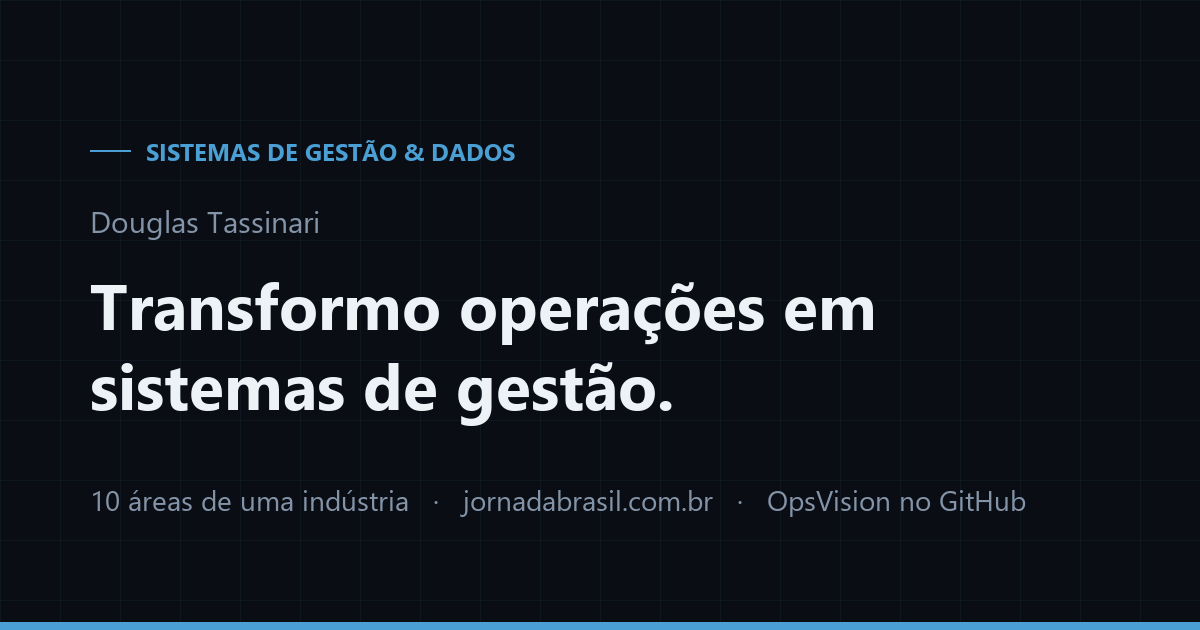
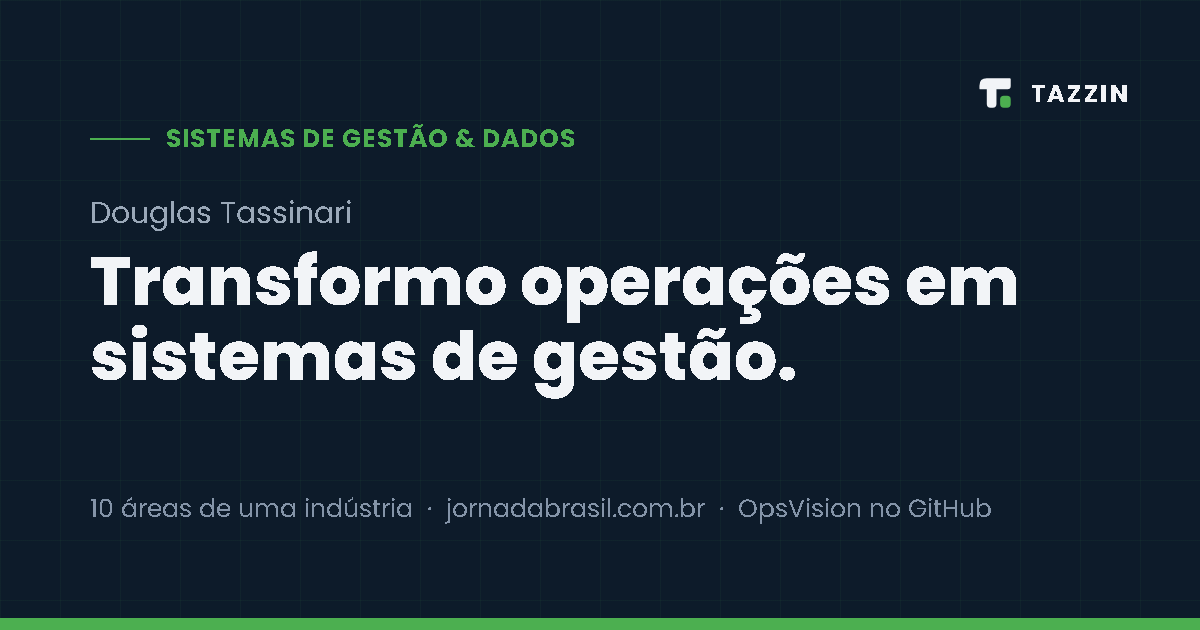
Miniatura de compartilhamento e ícones do app com a identidade Tazzin

diff --git a/cases/plataforma-industrial/index.html b/cases/plataforma-industrial/index.html
@@ -10,9 +10,13 @@
 <meta property="og:url" content="https://douglastassinari.github.io/cases/plataforma-industrial/">
 <meta property="og:title" content="De 15 para 3 dias de trabalho manual por mês: o sistema de gestão que construí numa indústria">
 <meta property="og:description" content="Saúde da carteira de 55 para 74, contatos comerciais 5×, usinagem de 30% para 4% da jornada sem registro — e as decisões por trás disso.">
-<meta property="og:image" content="https://douglastassinari.github.io/assets/img/og-cover.png">
+<meta property="og:image" content="https://douglastassinari.github.io/assets/img/og-cover.png?v=20261109">
+<meta property="og:image:width" content="1200">
+<meta property="og:image:height" content="630">
+<meta property="og:image:alt" content="Douglas Tassinari: sistemas de gestão e dados">
 <meta property="og:locale" content="pt_BR">
 <meta name="twitter:card" content="summary_large_image">
+<meta name="twitter:image" content="https://douglastassinari.github.io/assets/img/og-cover.png?v=20261109">
 <link rel="icon" type="image/svg+xml" href="/favicon.svg">
 <link rel="preconnect" href="https://fonts.googleapis.com">
 <link rel="preconnect" href="https://fonts.gstatic.com" crossorigin>

diff --git a/cases/jornada-brasil/index.html b/cases/jornada-brasil/index.html
@@ -10,9 +10,13 @@
 <meta property="og:url" content="https://douglastassinari.github.io/cases/jornada-brasil/">
 <meta property="og:title" content="Jornada Brasil: ferramentas que nasceram de problemas de gente próxima">
 <meta property="og:description" content="Uma planilha para colegas, um orçamento para o meu pai e uma conta de lucro para o meu irmão viraram um site público com 16 ferramentas.">
-<meta property="og:image" content="https://douglastassinari.github.io/assets/img/og-cover.png">
+<meta property="og:image" content="https://douglastassinari.github.io/assets/img/og-cover.png?v=20261109">
+<meta property="og:image:width" content="1200">
+<meta property="og:image:height" content="630">
+<meta property="og:image:alt" content="Douglas Tassinari: sistemas de gestão e dados">
 <meta property="og:locale" content="pt_BR">
 <meta name="twitter:card" content="summary_large_image">
+<meta name="twitter:image" content="https://douglastassinari.github.io/assets/img/og-cover.png?v=20261109">
 <link rel="icon" type="image/svg+xml" href="/favicon.svg">
 <link rel="preconnect" href="https://fonts.googleapis.com">
 <link rel="preconnect" href="https://fonts.gstatic.com" crossorigin>

diff --git a/cases/tazzin/index.html b/cases/tazzin/index.html
@@ -10,9 +10,13 @@
 <meta property="og:url" content="https://douglastassinari.github.io/cases/tazzin/">
 <meta property="og:title" content="Sistema TAZZIN: o que construí na indústria, auditável por qualquer pessoa">
 <meta property="og:description" content="18 módulos de gestão, 21 telas no código (11 na demo) e 299 testes automatizados, com dados sintéticos. Demo no ar e código aberto.">
-<meta property="og:image" content="https://douglastassinari.github.io/assets/img/og-cover.png">
+<meta property="og:image" content="https://douglastassinari.github.io/assets/img/og-cover.png?v=20261109">
+<meta property="og:image:width" content="1200">
+<meta property="og:image:height" content="630">
+<meta property="og:image:alt" content="Douglas Tassinari: sistemas de gestão e dados">
 <meta property="og:locale" content="pt_BR">
 <meta name="twitter:card" content="summary_large_image">
+<meta name="twitter:image" content="https://douglastassinari.github.io/assets/img/og-cover.png?v=20261109">
 <link rel="icon" type="image/svg+xml" href="/favicon.svg">
 <link rel="preconnect" href="https://fonts.googleapis.com">
 <link rel="preconnect" href="https://fonts.gstatic.com" crossorigin>

diff --git a/cases/recomendacao-imoveis/index.html b/cases/recomendacao-imoveis/index.html
@@ -10,9 +10,13 @@
 <meta property="og:url" content="https://douglastassinari.github.io/cases/recomendacao-imoveis/">
 <meta property="og:title" content="Três imóveis certos em segundos, em vez de garimpar mais de 100 anúncios">
 <meta property="og:description" content="Um sistema de recomendação por regras de negócio, entregue a uma imobiliária parceira e em uso desde junho de 2026.">
-<meta property="og:image" content="https://douglastassinari.github.io/assets/img/og-cover.png">
+<meta property="og:image" content="https://douglastassinari.github.io/assets/img/og-cover.png?v=20261109">
+<meta property="og:image:width" content="1200">
+<meta property="og:image:height" content="630">
+<meta property="og:image:alt" content="Douglas Tassinari: sistemas de gestão e dados">
 <meta property="og:locale" content="pt_BR">
 <meta name="twitter:card" content="summary_large_image">
+<meta name="twitter:image" content="https://douglastassinari.github.io/assets/img/og-cover.png?v=20261109">
 <link rel="icon" type="image/svg+xml" href="/favicon.svg">
 <link rel="preconnect" href="https://fonts.googleapis.com">
 <link rel="preconnect" href="https://fonts.gstatic.com" crossorigin>

diff --git a/cases/delivery-lanchonete/index.html b/cases/delivery-lanchonete/index.html
@@ -10,9 +10,13 @@
 <meta property="og:url" content="https://douglastassinari.github.io/cases/delivery-lanchonete/">
 <meta property="og:title" content="Do cardápio ao caixa: o sistema de pedidos de uma lanchonete de bairro">
 <meta property="og:description" content="O cliente monta o lanche e paga pelo celular; o dono recebe, acompanha e fecha o caixa num só lugar.">
-<meta property="og:image" content="https://douglastassinari.github.io/assets/img/og-cover.png">
+<meta property="og:image" content="https://douglastassinari.github.io/assets/img/og-cover.png?v=20261109">
+<meta property="og:image:width" content="1200">
+<meta property="og:image:height" content="630">
+<meta property="og:image:alt" content="Douglas Tassinari: sistemas de gestão e dados">
 <meta property="og:locale" content="pt_BR">
 <meta name="twitter:card" content="summary_large_image">
+<meta name="twitter:image" content="https://douglastassinari.github.io/assets/img/og-cover.png?v=20261109">
 <link rel="icon" type="image/svg+xml" href="/favicon.svg">
 <link rel="preconnect" href="https://fonts.googleapis.com">
 <link rel="preconnect" href="https://fonts.gstatic.com" crossorigin>

diff --git a/index.html b/index.html
@@ -10,9 +10,13 @@
 <meta property="og:url" content="https://douglastassinari.github.io/">
 <meta property="og:title" content="Douglas Tassinari · Sistemas de Gestão & Dados">
 <meta property="og:description" content="Transformo operações em sistemas de gestão — com os números de antes e depois, um produto no ar, dois clientes externos e código aberto.">
-<meta property="og:image" content="https://douglastassinari.github.io/assets/img/og-cover.png">
+<meta property="og:image" content="https://douglastassinari.github.io/assets/img/og-cover.png?v=20261109">
+<meta property="og:image:width" content="1200">
+<meta property="og:image:height" content="630">
+<meta property="og:image:alt" content="Douglas Tassinari: sistemas de gestão e dados">
 <meta property="og:locale" content="pt_BR">
 <meta name="twitter:card" content="summary_large_image">
+<meta name="twitter:image" content="https://douglastassinari.github.io/assets/img/og-cover.png?v=20261109">
 <link rel="icon" type="image/svg+xml" href="/favicon.svg">
 <link rel="apple-touch-icon" href="/apple-touch-icon.png">
 <link rel="manifest" href="/manifest.webmanifest">
